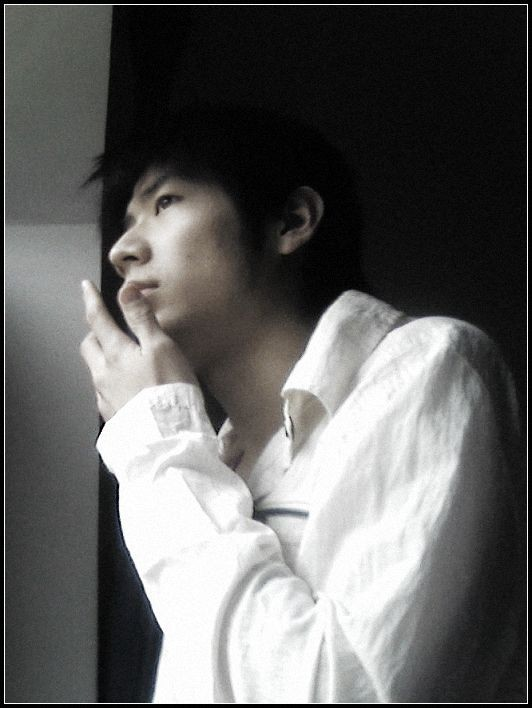
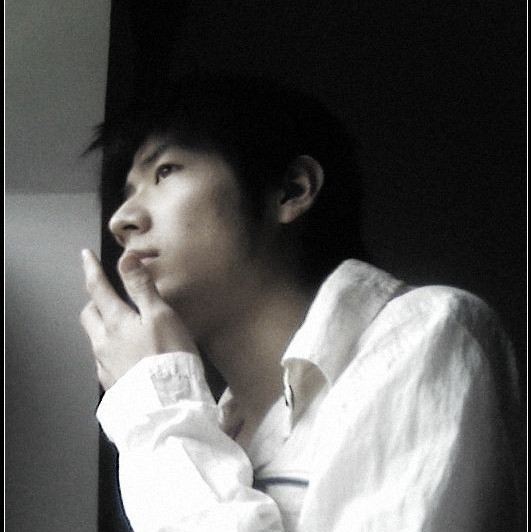
Site updated: 2017-05-07 10:24:37

diff --git a/2012/01/28/开博第一篇/index.html b/2012/01/28/开博第一篇/index.html
@@ -47,7 +47,7 @@
 <div class="intrude-less">
 	<header id="header" class="inner">
 		<a href="/" class="profilepic">
-			<img src="/img/my1.jpg" class="js-avatar show">
+			<img src="/img/my.jpg" class="js-avatar show">
 		</a>
 		<hgroup>
 		  <h1 class="header-author"><a href="/">anydc</a></h1>
@@ -103,7 +103,7 @@
 	<div class="intrude-less">
 		<header id="header" class="inner">
 			<div class="profilepic">
-				<img src="/img/my1.jpg" class="js-avatar">
+				<img src="/img/my.jpg" class="js-avatar">
 			</div>
 			<hgroup>
 			  <h1 class="header-author js-header-author">anydc</h1>

diff --git a/archives/2012/01/index.html b/archives/2012/01/index.html
@@ -46,7 +46,7 @@
 <div class="intrude-less">
 	<header id="header" class="inner">
 		<a href="/" class="profilepic">
-			<img src="/img/my1.jpg" class="js-avatar show">
+			<img src="/img/my.jpg" class="js-avatar show">
 		</a>
 		<hgroup>
 		  <h1 class="header-author"><a href="/">anydc</a></h1>
@@ -102,7 +102,7 @@
 	<div class="intrude-less">
 		<header id="header" class="inner">
 			<div class="profilepic">
-				<img src="/img/my1.jpg" class="js-avatar">
+				<img src="/img/my.jpg" class="js-avatar">
 			</div>
 			<hgroup>
 			  <h1 class="header-author js-header-author">anydc</h1>

diff --git a/archives/2012/index.html b/archives/2012/index.html
@@ -46,7 +46,7 @@
 <div class="intrude-less">
 	<header id="header" class="inner">
 		<a href="/" class="profilepic">
-			<img src="/img/my1.jpg" class="js-avatar show">
+			<img src="/img/my.jpg" class="js-avatar show">
 		</a>
 		<hgroup>
 		  <h1 class="header-author"><a href="/">anydc</a></h1>
@@ -102,7 +102,7 @@
 	<div class="intrude-less">
 		<header id="header" class="inner">
 			<div class="profilepic">
-				<img src="/img/my1.jpg" class="js-avatar">
+				<img src="/img/my.jpg" class="js-avatar">
 			</div>
 			<hgroup>
 			  <h1 class="header-author js-header-author">anydc</h1>

diff --git a/archives/index.html b/archives/index.html
@@ -46,7 +46,7 @@
 <div class="intrude-less">
 	<header id="header" class="inner">
 		<a href="/" class="profilepic">
-			<img src="/img/my1.jpg" class="js-avatar show">
+			<img src="/img/my.jpg" class="js-avatar show">
 		</a>
 		<hgroup>
 		  <h1 class="header-author"><a href="/">anydc</a></h1>
@@ -102,7 +102,7 @@
 	<div class="intrude-less">
 		<header id="header" class="inner">
 			<div class="profilepic">
-				<img src="/img/my1.jpg" class="js-avatar">
+				<img src="/img/my.jpg" class="js-avatar">
 			</div>
 			<hgroup>
 			  <h1 class="header-author js-header-author">anydc</h1>

diff --git a/index.html b/index.html
@@ -46,7 +46,7 @@
 <div class="intrude-less">
 	<header id="header" class="inner">
 		<a href="/" class="profilepic">
-			<img src="/img/my1.jpg" class="js-avatar show">
+			<img src="/img/my.jpg" class="js-avatar show">
 		</a>
 		<hgroup>
 		  <h1 class="header-author"><a href="/">anydc</a></h1>
@@ -102,7 +102,7 @@
 	<div class="intrude-less">
 		<header id="header" class="inner">
 			<div class="profilepic">
-				<img src="/img/my1.jpg" class="js-avatar">
+				<img src="/img/my.jpg" class="js-avatar">
 			</div>
 			<hgroup>
 			  <h1 class="header-author js-header-author">anydc</h1>

diff --git a/tags/随笔/index.html b/tags/随笔/index.html
@@ -46,7 +46,7 @@
 <div class="intrude-less">
 	<header id="header" class="inner">
 		<a href="/" class="profilepic">
-			<img src="/img/my1.jpg" class="js-avatar show">
+			<img src="/img/my.jpg" class="js-avatar show">
 		</a>
 		<hgroup>
 		  <h1 class="header-author"><a href="/">anydc</a></h1>
@@ -102,7 +102,7 @@
 	<div class="intrude-less">
 		<header id="header" class="inner">
 			<div class="profilepic">
-				<img src="/img/my1.jpg" class="js-avatar">
+				<img src="/img/my.jpg" class="js-avatar">
 			</div>
 			<hgroup>
 			  <h1 class="header-author js-header-author">anydc</h1>
